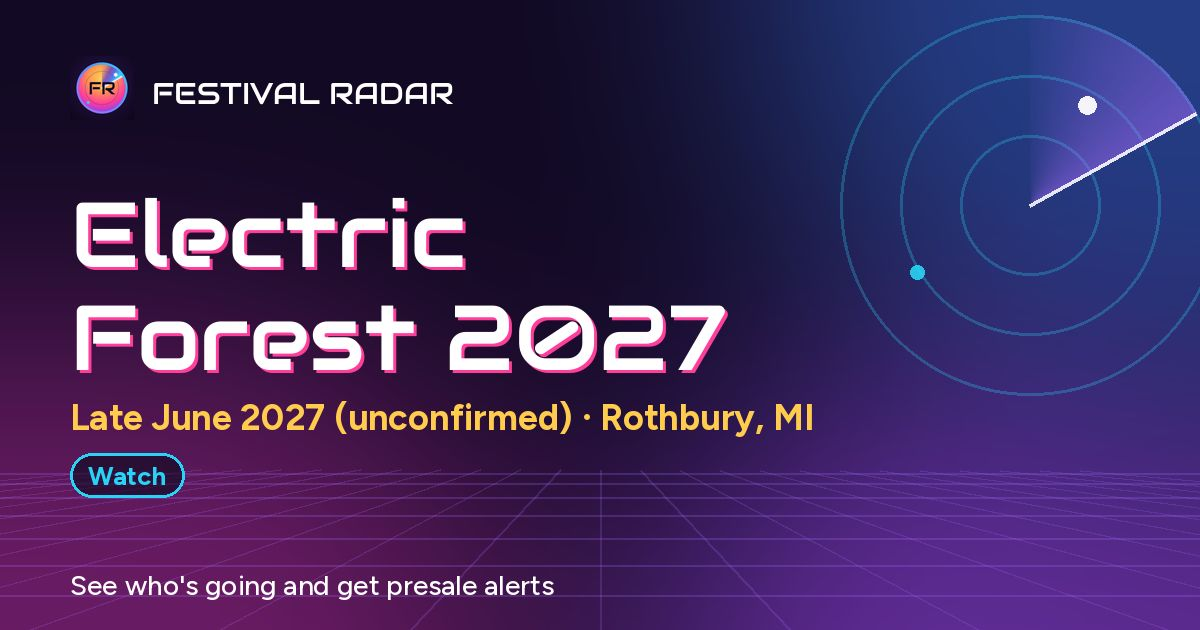
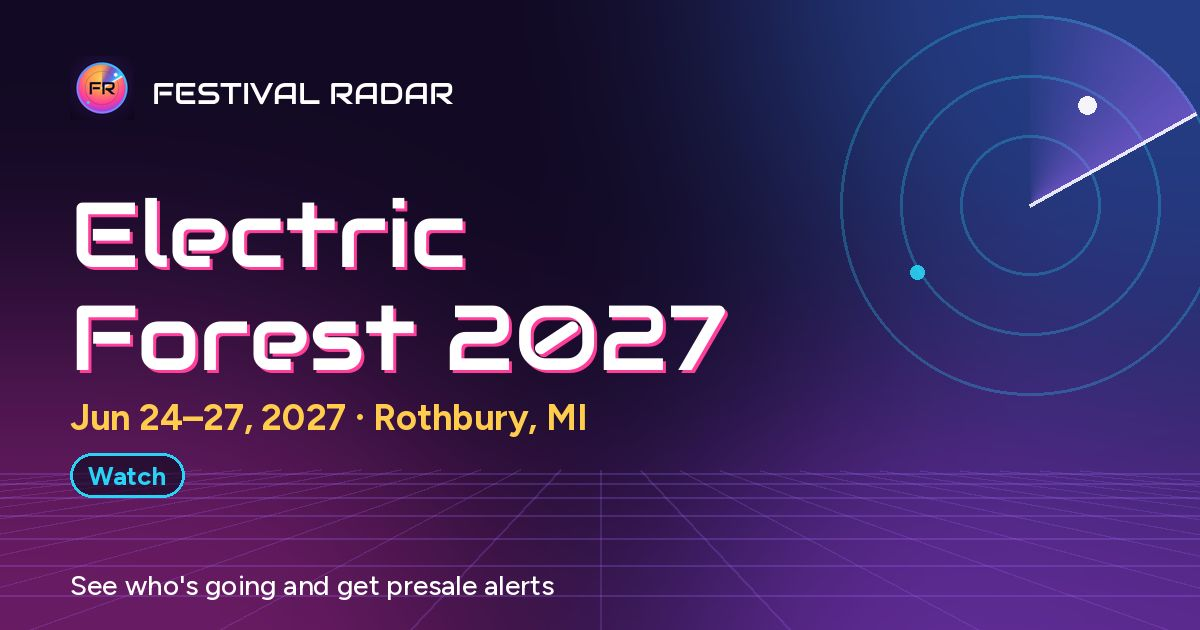
Festival refresh Nov 26, 2026
Claude-Session: https://claude.ai/code/session_01SGEQbkPTobf4UHi8TiT64x

Changed region(s): [[0.0617, 0.6333, 0.6783, 0.6937]]

diff --git a/index.html b/index.html
@@ -3916,7 +3916,7 @@ const pinSvg = () => { const s = mk('span', 'ch-pin'); s.innerHTML = '<svg width
 
 </script>
 <script id="festival-data" type="application/json">{
-"updated": "Nov 23, 2026",
+"updated": "Nov 26, 2026",
 "festivals": [
 {
 "artists": "Lineup TBA",
@@ -4252,7 +4252,7 @@ const pinSvg = () => { const s = mk('span', 'ch-pin'); s.innerHTML = '<svg width
 {
 "artists": "Lineup TBA",
 "city": "Rothbury, MI",
-"dates": "Late June 2027 (unconfirmed)",
+"dates": "Jun 24–27, 2027",
 "distance": "1,840 mi",
 "end": "2027-06-27",
 "festival": "Electric Forest 2027",
@@ -4260,8 +4260,8 @@ const pinSvg = () => { const s = mk('span', 'ch-pin'); s.innerHTML = '<svg width
 "link": "https://electricforestfestival.com",
 "miles": 1840,
 "next_sale": "",
-"next_sale_label": "Loyalty presale ran Dec 9 to 11 last cycle; 2027 times not announced",
-"note": "Festival has not confirmed 2027 dates. The official loyalty page still shows last cycle (2026 festival, presale Dec 9 to 11). Check loyalty status.",
+"next_sale_label": "Loyalty presales in December (times not announced yet)",
+"note": "Official site confirms Electric Forest returns June 24 to 27, 2027. 2027 Loyalty Lookup and Recognition is open now and closes Mon Nov 30 at 12pm ET; loyalty credits load into FanAccounts in December before the Loyalty Presales begin (tickets on AXS). Exact presale times not announced yet; last cycle ran Dec 9 to 11.",
 "price_from": "",
 "section": "USA",
 "start": "2027-06-24",
@@ -6005,17 +6005,16 @@ const pinSvg = () => { const s = mk('span', 'ch-pin'); s.innerHTML = '<svg width
 "link": "https://www.mysteryland.nl",
 "miles": 5568,
 "next_sale": "",
-"next_sale_label": "Loyalty sale reported Nov 24; time not announced",
-"note": "Returns after a 2026 break year with a new concept. Loyalty sale reported for Nov 24 (time not announced); pre-register on the official site to join.",
+"next_sale_label": "Loyalty sale was set for Nov 24; check pre-registration",
+"note": "Returns after a 2026 break year with a new concept. Loyalty sale was announced for Nov 24 (time not given) for pre-registered fans; could not confirm the result or prices. Pre-register on the official site for the next sale.",
 "price_from": "",
 "section": "Worldwide",
 "start": "2027-08-27",
-"status": "Presale soon",
+"status": "Watch",
 "id": "mysteryland-2027",
 "ticket_link": "",
 "lat": 52.303,
-"lng": 4.689,
-"expected_sale": "2026-11-24"
+"lng": 4.689
 },
 {
 "artists": "Lineup TBA",
@@ -6060,29 +6059,6 @@ const pinSvg = () => { const s = mk('span', 'ch-pin'); s.innerHTML = '<svg width
 "ticket_link": "https://events.liveit.io/ultra-europe/ultra-europe-2027/",
 "lat": 43.5081,
 "lng": 16.4402
-},
-{
-"artists": "Clawz, Dr. Donk",
-"city": "Los Angeles, CA",
-"dates": "Wed Nov 25, 2026",
-"distance": "16 mi",
-"end": "2026-11-25",
-"festival": "Clawz at Avalon Hollywood",
-"genre": "Techno / hard dance",
-"kind": "show",
-"link": "https://www.insomniac.com/events/los-angeles-ca/",
-"miles": 16,
-"next_sale": "",
-"next_sale_label": "Tickets on sale",
-"note": "Mutate (Insomniac) night, 21+. Listed on Insomniac LA events; venue per the Avalon ticket page.",
-"price_from": "",
-"section": "Local",
-"start": "2026-11-25",
-"status": "On sale",
-"id": "show-clawz-at-avalon-hollywood-2026-11-25",
-"ticket_link": "https://avalonhollywood.com/event/clawz-nightclub-near-me-discover-avalon-hollywood-2026-nov-25-best-night-club-near-me-los-angeles/",
-"lat": 34.0522,
-"lng": -118.2437
 },
 {
 "artists": "Luciid, Callush",

diff --git a/f/electric-forest-2027.html b/f/electric-forest-2027.html
@@ -4,20 +4,20 @@
 <meta charset="utf-8">
 <meta name="viewport" content="width=device-width, initial-scale=1">
 <title>Electric Forest 2027 on Festival Radar</title>
-<meta name="description" content="Late June 2027 (unconfirmed) · Rothbury, MI. See who&#x27;s going and get presale alerts on Festival Radar.">
+<meta name="description" content="Jun 24–27, 2027 · Rothbury, MI. See who&#x27;s going and get presale alerts on Festival Radar.">
 <meta property="og:type" content="website">
 <meta property="og:site_name" content="Festival Radar">
 <meta property="og:title" content="Electric Forest 2027">
-<meta property="og:description" content="Late June 2027 (unconfirmed) · Rothbury, MI. See who&#x27;s going and get presale alerts on Festival Radar.">
+<meta property="og:description" content="Jun 24–27, 2027 · Rothbury, MI. See who&#x27;s going and get presale alerts on Festival Radar.">
 <meta property="og:url" content="https://deftspyder.github.io/festival-radar/f/electric-forest-2027.html">
-<meta property="og:image" content="https://deftspyder.github.io/festival-radar/f/img/electric-forest-2027.jpg?v=66be0ed1">
+<meta property="og:image" content="https://deftspyder.github.io/festival-radar/f/img/electric-forest-2027.jpg?v=e8deaf56">
 <meta property="og:image:width" content="1200">
 <meta property="og:image:height" content="630">
-<meta property="og:image:alt" content="Electric Forest 2027, Late June 2027 (unconfirmed) · Rothbury, MI">
+<meta property="og:image:alt" content="Electric Forest 2027, Jun 24–27, 2027 · Rothbury, MI">
 <meta name="twitter:card" content="summary_large_image">
 <meta name="twitter:title" content="Electric Forest 2027">
-<meta name="twitter:description" content="Late June 2027 (unconfirmed) · Rothbury, MI. See who&#x27;s going and get presale alerts on Festival Radar.">
-<meta name="twitter:image" content="https://deftspyder.github.io/festival-radar/f/img/electric-forest-2027.jpg?v=66be0ed1">
+<meta name="twitter:description" content="Jun 24–27, 2027 · Rothbury, MI. See who&#x27;s going and get presale alerts on Festival Radar.">
+<meta name="twitter:image" content="https://deftspyder.github.io/festival-radar/f/img/electric-forest-2027.jpg?v=e8deaf56">
 <meta name="theme-color" content="#120a24">
 <link rel="icon" href="../icons/favicon.svg" type="image/svg+xml">
 <link rel="canonical" href="https://deftspyder.github.io/festival-radar/f/electric-forest-2027.html">
@@ -29,7 +29,7 @@ a { display: inline-block; margin-top: 18px; padding: 12px 22px; border-radius: 
 </head>
 <body>
 <main>
-<img src="img/electric-forest-2027.jpg?v=66be0ed1" alt="Electric Forest 2027, Late June 2027 (unconfirmed) · Rothbury, MI">
+<img src="img/electric-forest-2027.jpg?v=e8deaf56" alt="Electric Forest 2027, Jun 24–27, 2027 · Rothbury, MI">
 <p><a id="go" href="../?card=electric-forest-2027#festivals">Open Electric Forest 2027 on Festival Radar</a></p>
 </main>
 <script>

diff --git a/f/mysteryland-2027.html b/f/mysteryland-2027.html
@@ -10,14 +10,14 @@
 <meta property="og:title" content="Mysteryland 2027">
 <meta property="og:description" content="Aug 27–29, 2027 · Haarlemmermeer, Netherlands. See who&#x27;s going and get presale alerts on Festival Radar.">
 <meta property="og:url" content="https://deftspyder.github.io/festival-radar/f/mysteryland-2027.html">
-<meta property="og:image" content="https://deftspyder.github.io/festival-radar/f/img/mysteryland-2027.jpg?v=d4759f90">
+<meta property="og:image" content="https://deftspyder.github.io/festival-radar/f/img/mysteryland-2027.jpg?v=9f9b7d46">
 <meta property="og:image:width" content="1200">
 <meta property="og:image:height" content="630">
 <meta property="og:image:alt" content="Mysteryland 2027, Aug 27–29, 2027 · Haarlemmermeer, Netherlands">
 <meta name="twitter:card" content="summary_large_image">
 <meta name="twitter:title" content="Mysteryland 2027">
 <meta name="twitter:description" content="Aug 27–29, 2027 · Haarlemmermeer, Netherlands. See who&#x27;s going and get presale alerts on Festival Radar.">
-<meta name="twitter:image" content="https://deftspyder.github.io/festival-radar/f/img/mysteryland-2027.jpg?v=d4759f90">
+<meta name="twitter:image" content="https://deftspyder.github.io/festival-radar/f/img/mysteryland-2027.jpg?v=9f9b7d46">
 <meta name="theme-color" content="#120a24">
 <link rel="icon" href="../icons/favicon.svg" type="image/svg+xml">
 <link rel="canonical" href="https://deftspyder.github.io/festival-radar/f/mysteryland-2027.html">
@@ -29,7 +29,7 @@ a { display: inline-block; margin-top: 18px; padding: 12px 22px; border-radius: 
 </head>
 <body>
 <main>
-<img src="img/mysteryland-2027.jpg?v=d4759f90" alt="Mysteryland 2027, Aug 27–29, 2027 · Haarlemmermeer, Netherlands">
+<img src="img/mysteryland-2027.jpg?v=9f9b7d46" alt="Mysteryland 2027, Aug 27–29, 2027 · Haarlemmermeer, Netherlands">
 <p><a id="go" href="../?card=mysteryland-2027#festivals">Open Mysteryland 2027 on Festival Radar</a></p>
 </main>
 <script>
